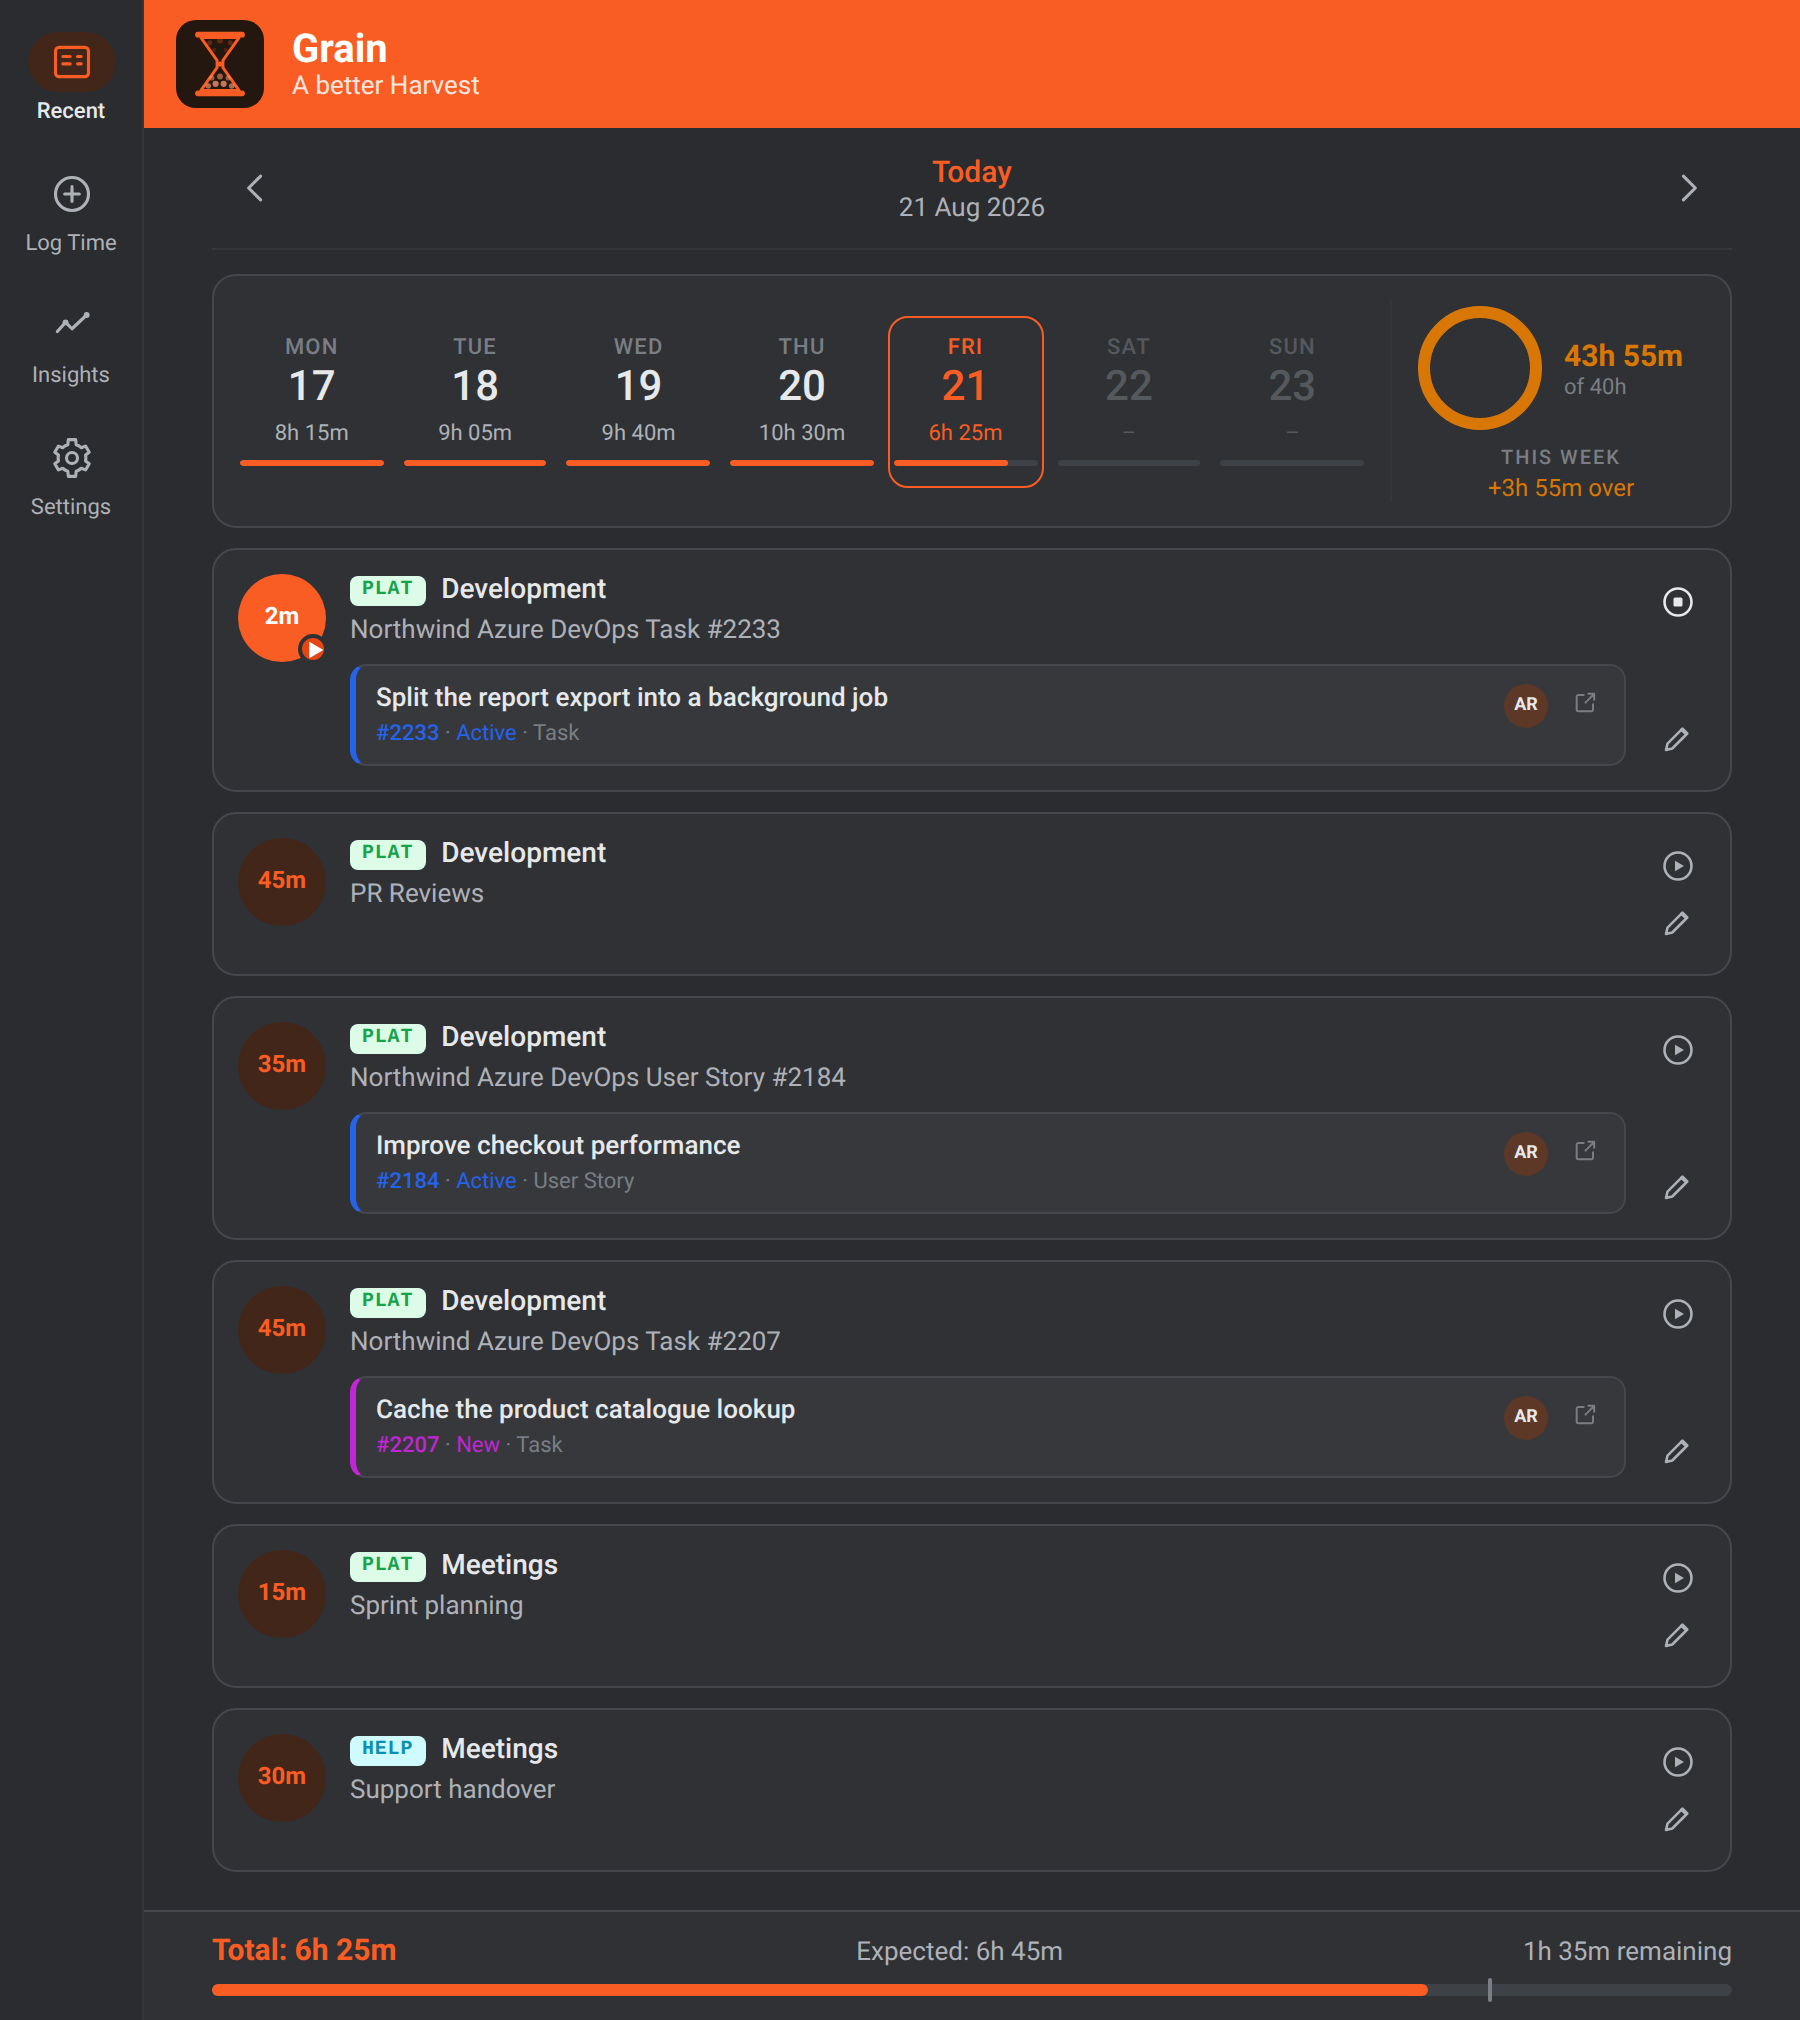
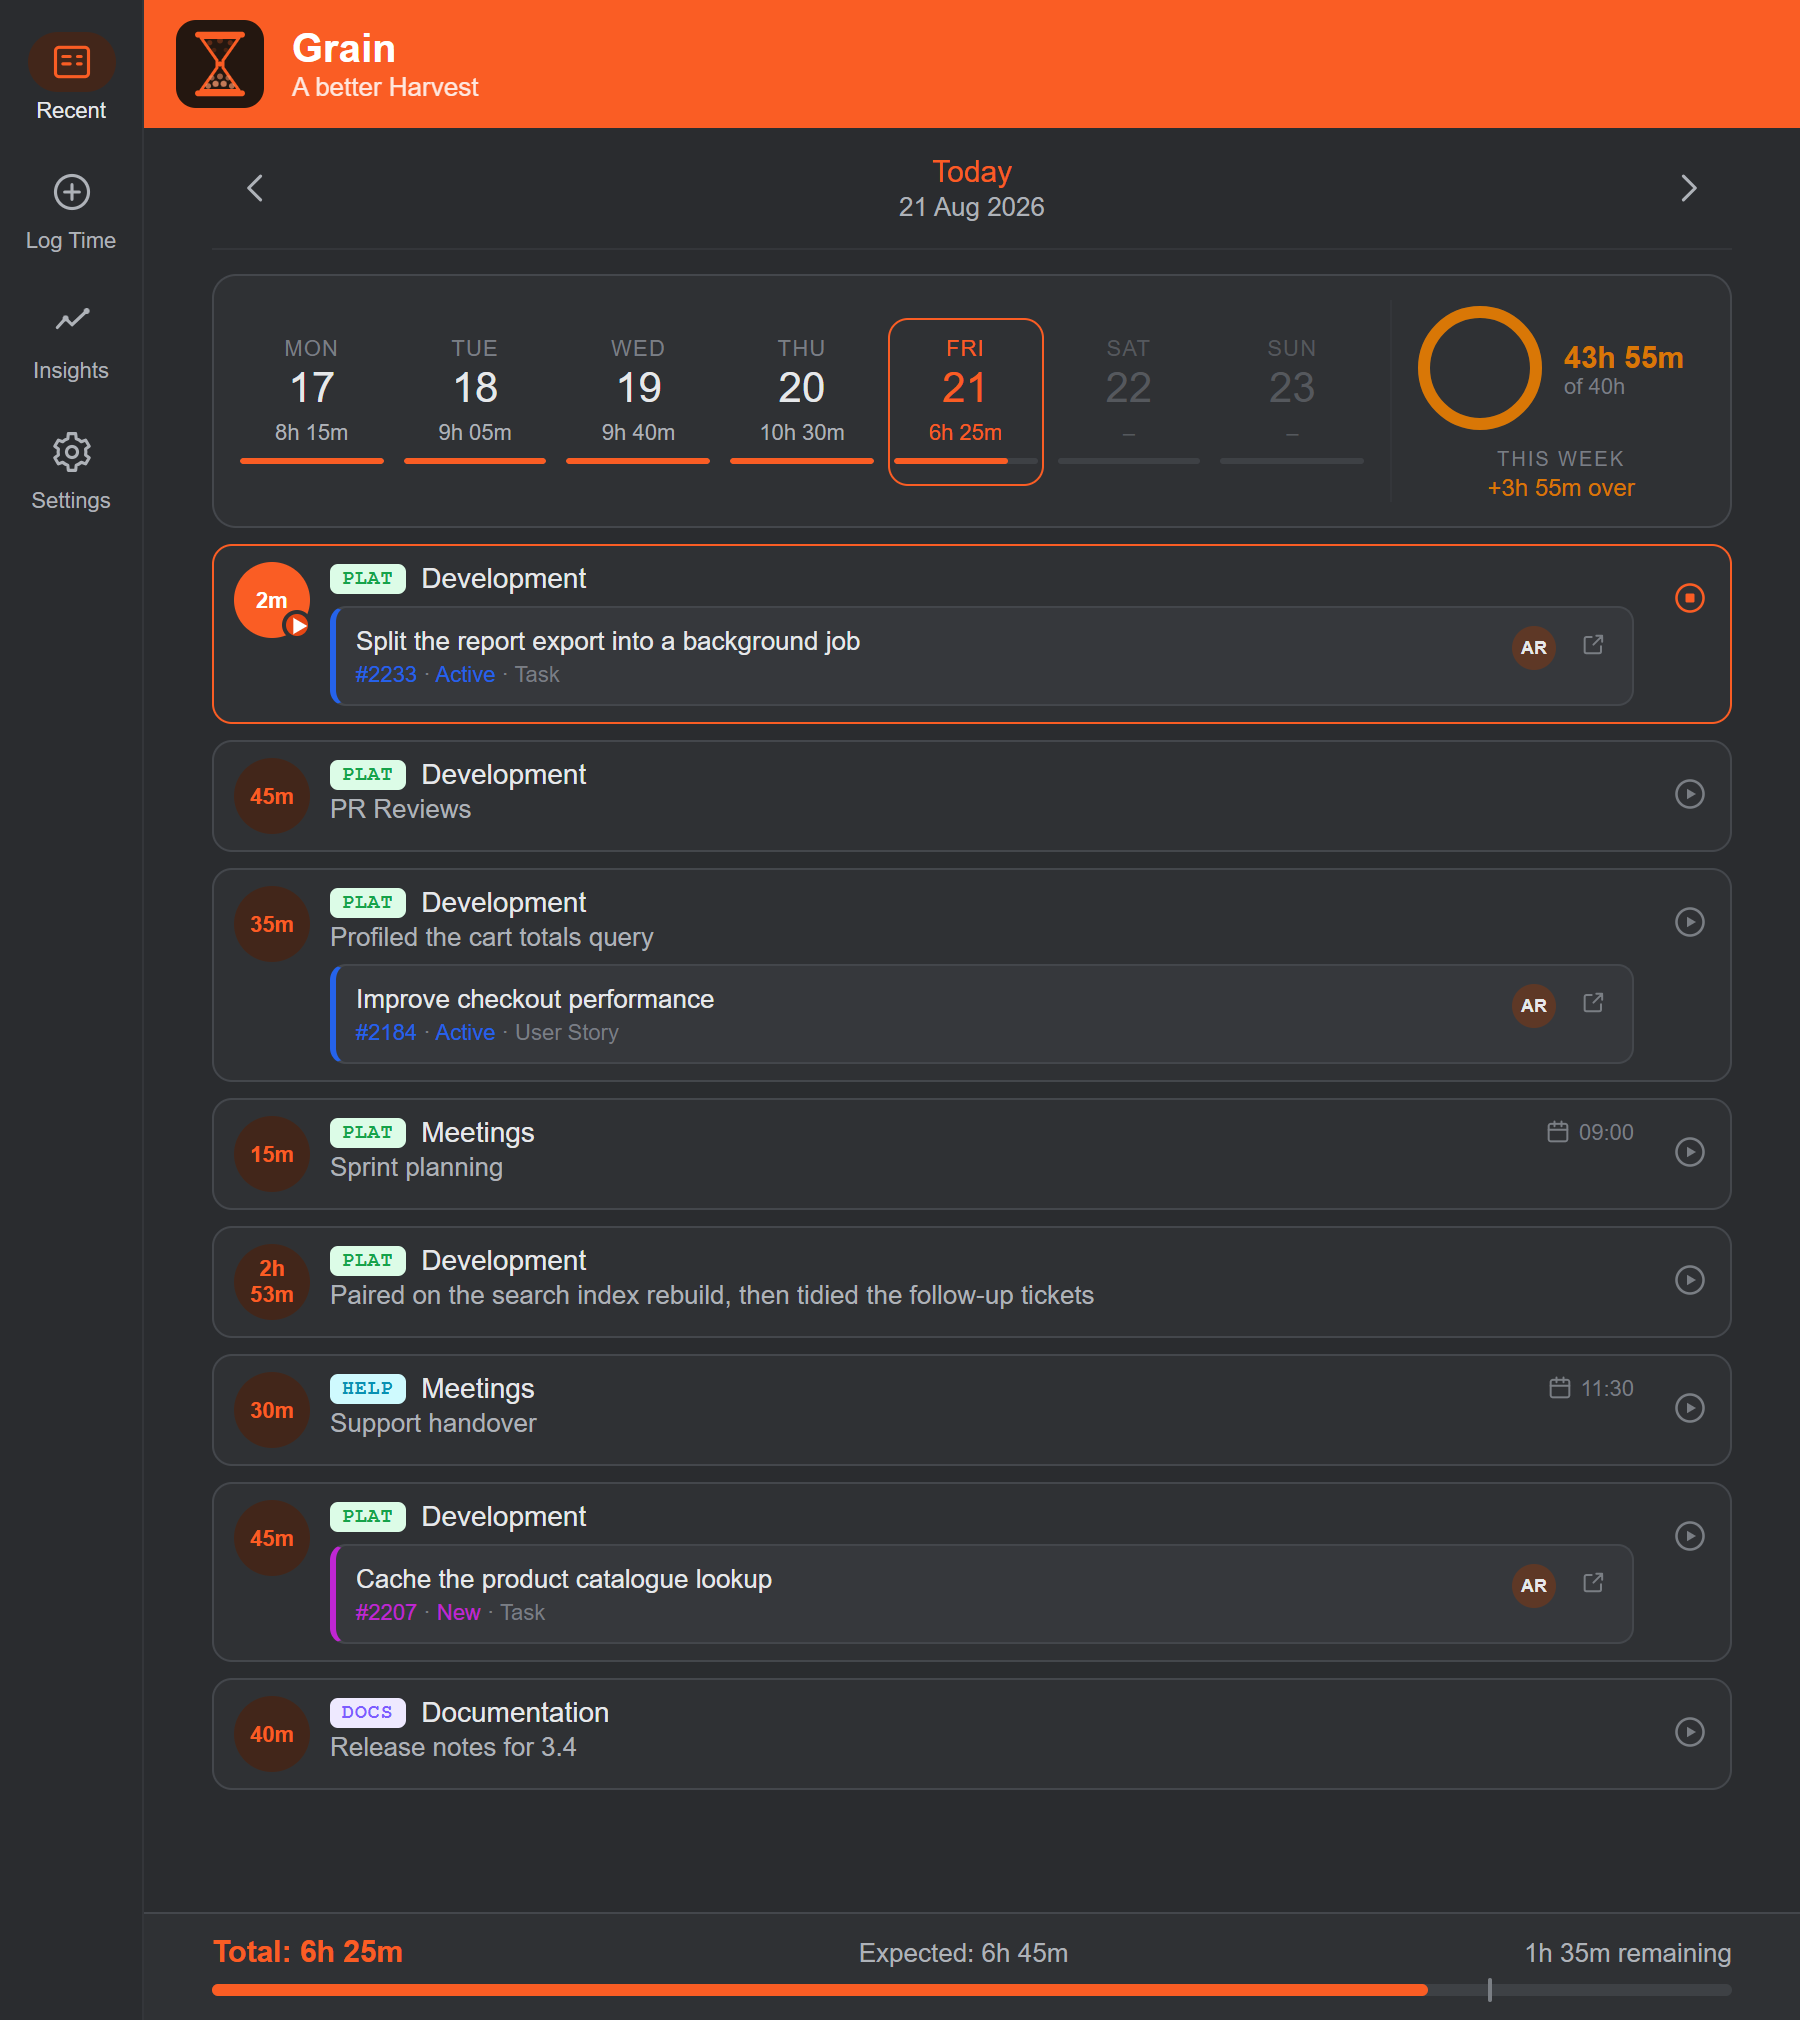
Show the compact Recent card in the docs and screenshots

diff --git a/docs/mockups/recent.html b/docs/mockups/recent.html
@@ -58,11 +58,10 @@
           </div>
         </div>
 
-        <div class="card">
+        <div class="card compact running">
           <div class="pill running">2m<span class="badge"><svg class="i i-14" style="stroke-width:0"><use href="#ic-play-solid"/></svg></span></div>
           <div class="entry">
             <div class="head"><span class="code cat-green">PLAT</span><span class="task">Development</span></div>
-            <div class="notes">Northwind Azure DevOps Task #2233</div>
             <div class="wichip">
               <div class="t">
                 <div class="title">Split the report export into a background job</div>
@@ -72,29 +71,23 @@
               <span class="iconbtn" style="width:18px;height:18px;color:var(--text3)"><svg class="i i-14"><use href="#ic-external"/></svg></span>
             </div>
           </div>
-          <div class="actions">
-            <span class="iconbtn" style="color:var(--text)"><svg class="i i-18"><use href="#ic-stop"/></svg></span>
-            <span class="iconbtn"><svg class="i i-18"><use href="#ic-pencil"/></svg></span>
-          </div>
+          <span class="iconbtn act" style="color:var(--brand)"><svg class="i i-18"><use href="#ic-stop"/></svg></span>
         </div>
 
-        <div class="card">
+        <div class="card compact">
           <div class="pill">45m</div>
           <div class="entry">
             <div class="head"><span class="code cat-green">PLAT</span><span class="task">Development</span></div>
             <div class="notes">PR Reviews</div>
           </div>
-          <div class="actions">
-            <span class="iconbtn"><svg class="i i-18"><use href="#ic-play"/></svg></span>
-            <span class="iconbtn"><svg class="i i-18"><use href="#ic-pencil"/></svg></span>
-          </div>
+          <span class="iconbtn act"><svg class="i i-18"><use href="#ic-play"/></svg></span>
         </div>
 
-        <div class="card">
+        <div class="card compact">
           <div class="pill">35m</div>
           <div class="entry">
             <div class="head"><span class="code cat-green">PLAT</span><span class="task">Development</span></div>
-            <div class="notes">Northwind Azure DevOps User Story #2184</div>
+            <div class="notes">Profiled the cart totals query</div>
             <div class="wichip">
               <div class="t">
                 <div class="title">Improve checkout performance</div>
@@ -104,17 +97,40 @@
               <span class="iconbtn" style="width:18px;height:18px;color:var(--text3)"><svg class="i i-14"><use href="#ic-external"/></svg></span>
             </div>
           </div>
-          <div class="actions">
-            <span class="iconbtn"><svg class="i i-18"><use href="#ic-play"/></svg></span>
-            <span class="iconbtn"><svg class="i i-18"><use href="#ic-pencil"/></svg></span>
-          </div>
+          <span class="iconbtn act"><svg class="i i-18"><use href="#ic-play"/></svg></span>
         </div>
 
-        <div class="card">
+        <div class="card compact">
+          <div class="pill">15m</div>
+          <div class="entry">
+            <div class="head"><span class="code cat-green">PLAT</span><span class="task">Meetings</span><span class="when"><svg class="i i-14"><use href="#ic-calendar"/></svg>09:00</span></div>
+            <div class="notes">Sprint planning</div>
+          </div>
+          <span class="iconbtn act"><svg class="i i-18"><use href="#ic-play"/></svg></span>
+        </div>
+
+        <div class="card compact">
+          <div class="pill">2h<br>53m</div>
+          <div class="entry">
+            <div class="head"><span class="code cat-green">PLAT</span><span class="task">Development</span></div>
+            <div class="notes">Paired on the search index rebuild, then tidied the follow-up tickets</div>
+          </div>
+          <span class="iconbtn act"><svg class="i i-18"><use href="#ic-play"/></svg></span>
+        </div>
+
+        <div class="card compact">
+          <div class="pill">30m</div>
+          <div class="entry">
+            <div class="head"><span class="code cat-cyan">HELP</span><span class="task">Meetings</span><span class="when"><svg class="i i-14"><use href="#ic-calendar"/></svg>11:30</span></div>
+            <div class="notes">Support handover</div>
+          </div>
+          <span class="iconbtn act"><svg class="i i-18"><use href="#ic-play"/></svg></span>
+        </div>
+
+        <div class="card compact">
           <div class="pill">45m</div>
           <div class="entry">
             <div class="head"><span class="code cat-green">PLAT</span><span class="task">Development</span></div>
-            <div class="notes">Northwind Azure DevOps Task #2207</div>
             <div class="wichip new">
               <div class="t">
                 <div class="title">Cache the product catalogue lookup</div>
@@ -124,34 +140,16 @@
               <span class="iconbtn" style="width:18px;height:18px;color:var(--text3)"><svg class="i i-14"><use href="#ic-external"/></svg></span>
             </div>
           </div>
-          <div class="actions">
-            <span class="iconbtn"><svg class="i i-18"><use href="#ic-play"/></svg></span>
-            <span class="iconbtn"><svg class="i i-18"><use href="#ic-pencil"/></svg></span>
-          </div>
+          <span class="iconbtn act"><svg class="i i-18"><use href="#ic-play"/></svg></span>
         </div>
 
-        <div class="card">
-          <div class="pill">15m</div>
+        <div class="card compact">
+          <div class="pill">40m</div>
           <div class="entry">
-            <div class="head"><span class="code cat-green">PLAT</span><span class="task">Meetings</span></div>
-            <div class="notes">Sprint planning</div>
+            <div class="head"><span class="code cat-violet">DOCS</span><span class="task">Documentation</span></div>
+            <div class="notes">Release notes for 3.4</div>
           </div>
-          <div class="actions">
-            <span class="iconbtn"><svg class="i i-18"><use href="#ic-play"/></svg></span>
-            <span class="iconbtn"><svg class="i i-18"><use href="#ic-pencil"/></svg></span>
-          </div>
-        </div>
-
-        <div class="card">
-          <div class="pill">30m</div>
-          <div class="entry">
-            <div class="head"><span class="code cat-cyan">HELP</span><span class="task">Meetings</span></div>
-            <div class="notes">Support handover</div>
-          </div>
-          <div class="actions">
-            <span class="iconbtn"><svg class="i i-18"><use href="#ic-play"/></svg></span>
-            <span class="iconbtn"><svg class="i i-18"><use href="#ic-pencil"/></svg></span>
-          </div>
+          <span class="iconbtn act"><svg class="i i-18"><use href="#ic-play"/></svg></span>
         </div>
 
       </div></div>

diff --git a/docs/mockups/grain.css b/docs/mockups/grain.css
@@ -143,6 +143,16 @@ body {
 .actions { display: flex; flex-direction: column; align-items: center; justify-content: space-between; }
 .actions .iconbtn { width: 28px; height: 28px; }
 
+/* Compact card: one row, tap to edit, a single trailing action. */
+.card.compact { padding: 8px 2px 8px 10px; gap: 10px; margin-top: 8px; border-radius: 10px; }
+.card.compact.running { border: 1.5px solid var(--brand); }
+.card.compact .pill { width: 38px; height: 38px; flex: 0 0 38px; border-radius: 19px; font-size: 11px; }
+.card.compact .head .task { flex: 1; min-width: 0; white-space: nowrap; overflow: hidden; text-overflow: ellipsis; }
+.card.compact .notes { margin-top: 2px; white-space: nowrap; overflow: hidden; text-overflow: ellipsis; }
+.card.compact .wichip { margin-top: 6px; }
+.card.compact .act { width: 36px; height: 36px; flex: 0 0 36px; color: var(--text3); }
+.entry .when { display: flex; align-items: center; gap: 3px; font-size: 11px; color: var(--text3); }
+
 /* ── ADO work item chip ──────────────────────────────────────────── */
 .wichip {
   margin-top: 9px; background: var(--surface2); border: 1px solid var(--border);

diff --git a/README.md b/README.md
@@ -85,8 +85,9 @@ ADO by hand.
 - **Weekly progress ring** — animated circular arc showing week total vs. goal; brand-orange fill, switches to amber when over goal; center label shows `Xh Ym / of 40h`; "THIS WEEK" caption with contextual helper text (`Xh to go`, `Goal met`, `+Xh over`); over-goal state moves the label beside the ring for visual emphasis
 - **Daily view** — browse entries by day with prev/next navigation and a date picker
 - **Daily progress bar** — visual indicator of daily progress toward a configurable goal (derived from work day start/end/break settings); shows overflow in amber; when viewing today, displays an **expected hours** tick marker on the bar and an "Expected: Xh Ym" label based on how much of the work day has elapsed
-- **Stop & continue** — a running entry counts up live on its card with a Stop button; any stopped entry can be resumed with Continue. Harvest allows one running timer per user, so Continue is disabled while another is going
-- **Edit entries** — tap the pencil icon to open a pre-filled edit form with an orange context banner showing the duration and entry ID; changes are saved via `PATCH` and reflected immediately
+- **Compact entry cards** — one row per entry: duration, project · task, and one line of notes, so a day fits on a phone screen without scrolling. Entries linked to a work item keep the full preview (title, number, state, type and avatar, tap to open in Azure DevOps), and the "… Azure DevOps Task #123" note that only repeats it is hidden — whatever you typed after it still shows. Meetings logged from your calendar carry a calendar icon and their start time
+- **Stop & continue** — a running entry counts up live on its card with a Stop button and an accent border; any stopped entry can be resumed with Continue. Harvest allows one running timer per user, so Continue is disabled while another is going
+- **Edit entries** — tap anywhere on an entry to open a pre-filled edit form with an orange context banner showing the duration and entry ID; changes are saved via `PATCH` and reflected immediately
 - **Delete entries** — tap the trash icon in the Edit Entry screen to permanently remove an entry after confirmation
 
 ### Insights

diff --git a/.claude/docs/recent-entries-screen.md b/.claude/docs/recent-entries-screen.md
@@ -12,3 +12,12 @@ Stateless apart from its provider listener: listens to `TimeEntryProvider` via `
 - `_WeekSummaryStrip` — reads `weeklyGoalHours` and `dailyGoalHours` from `ProjectCategoryProvider`; `_DayData` holds per-day state
 - `_DailyProgressBar` — reads `dailyGoalHours`, `workDayStart`, `workDayEnd` from `ProjectCategoryProvider`; accepts `isToday` to conditionally show expected time tick + label; shows "Xh Ym remaining" or "+Xh Ym over goal"
 - **`lib/widgets/`** — `WorkItemPreview` fetches and renders a live ADO work item card (debounced 600 ms). `TimeEntryCard` renders an entry with an optional embedded ADO card.
+
+**`TimeEntryCard` (`lib/widgets/time_entry_card.dart`)** — compact, one row:
+
+- 38 px `DurationPill` (live and badged while running) · project code chip + task · one line of notes (ellipsis) · a single trailing action, Continue or Stop (`_TimerButton`; Continue disabled while another timer runs).
+- **No edit button**: the whole card is an `InkWell` that pushes `EditTimeScreen`.
+- **Running entry** gets a 1.5 px `palette.brand` border, since it can scroll out of view.
+- **Work item entries** (`entry.adoReference != null`) keep the full `WorkItemChip` under the head line, tap-to-open included. The notes line goes through `workItemNotesLine` (`lib/models/entry_display.dart`): Log Time writes `{instance} Azure DevOps {type} #{id}` or `… #{id} - {typed}`, so a prefix-only note is hidden and a prefixed one shows only what was typed.
+- **Imported meetings** (`externalReference.id` starting `kMeetingRefPrefix`) show a calendar icon and `HH:mm` start before the action, from `meetingStartLabel`: Harvest's `startedTime` when the account records it, otherwise the epoch seconds at the end of `GrainCalendar_{hash}_{epoch}` (the series occurrence, read as local time). A meeting linked to a work item carries the ADO reference instead, so it shows no marker.
+- Pure helpers tested in `test/entry_display_test.dart`; the card in `test/time_entry_card_test.dart`.
